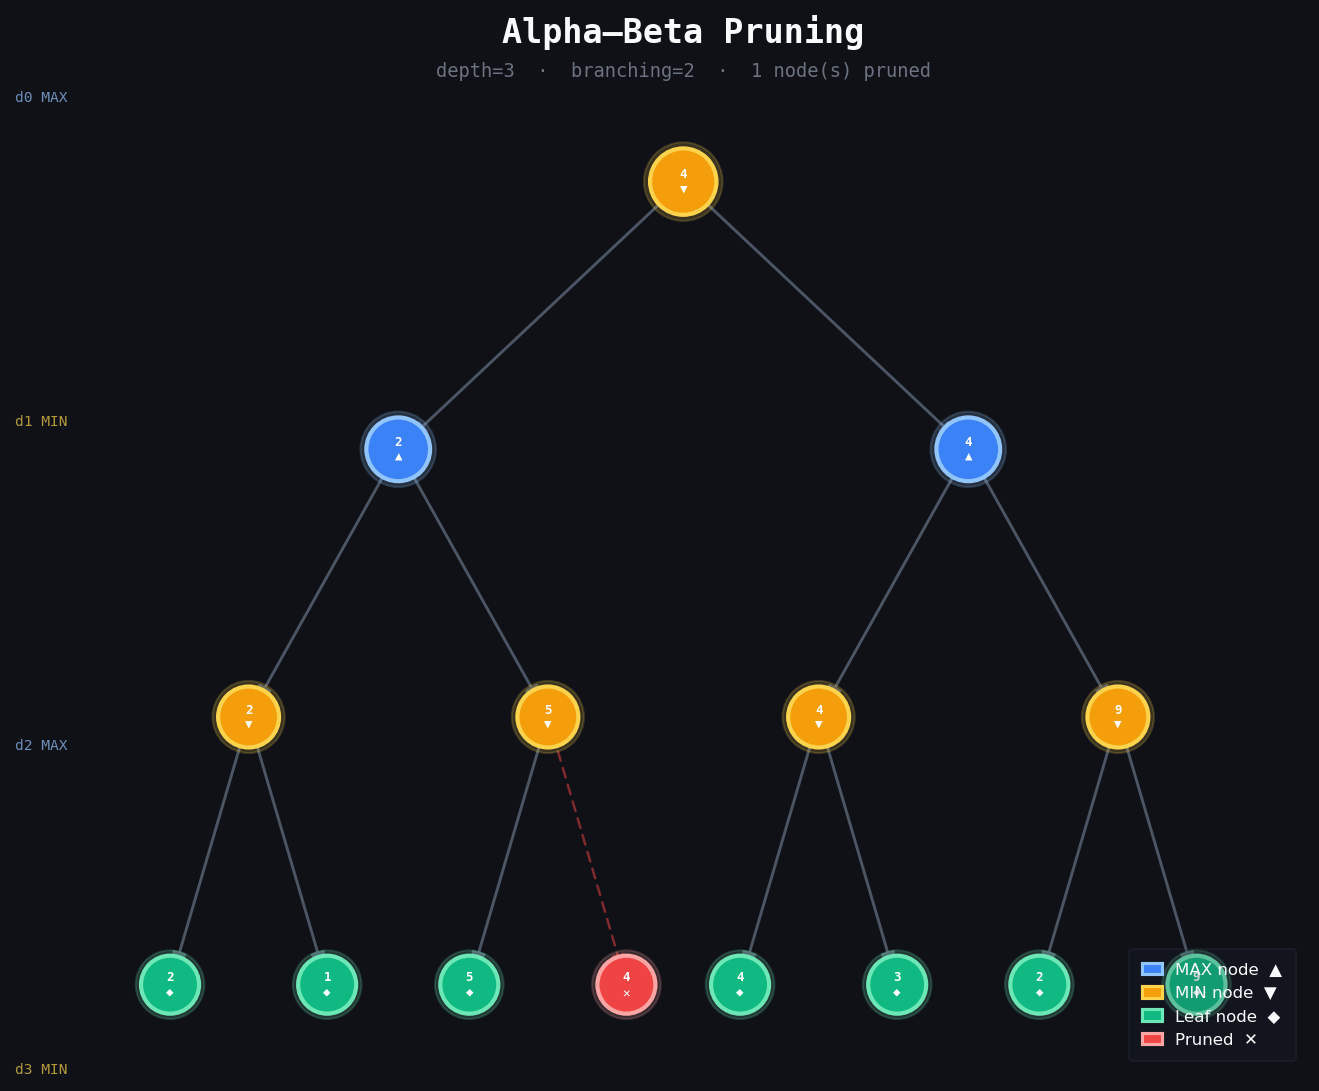
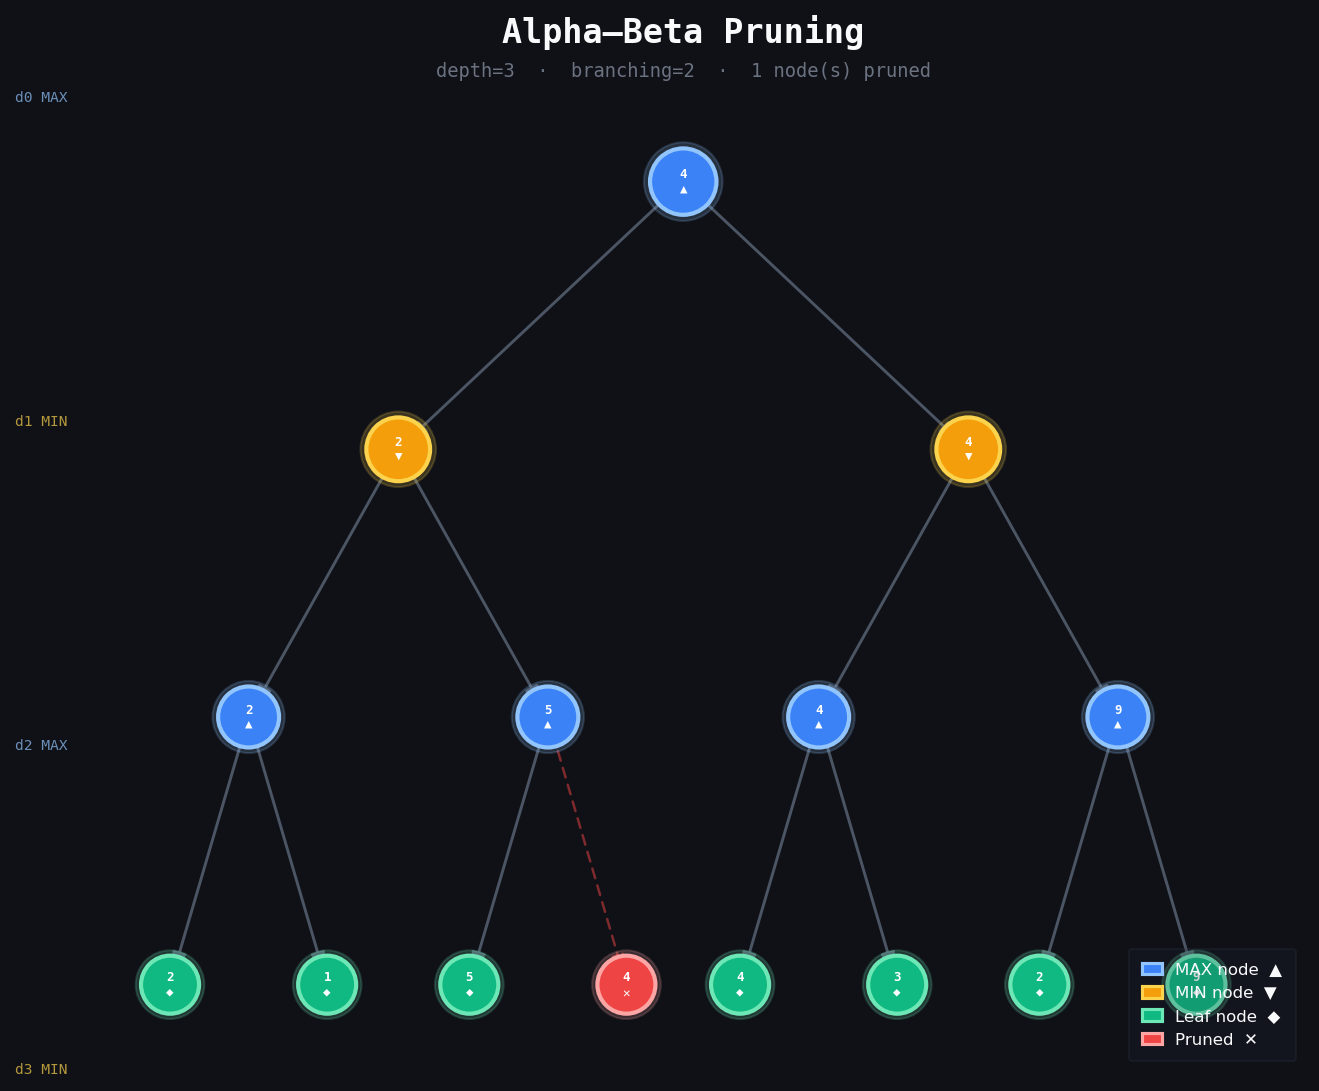
AB PRUNING

diff --git a/alpha-beta-pruning.py b/alpha-beta-pruning.py
@@ -9,6 +9,9 @@ pruned = set()
 # I will view in terminal for now
 # Add matplotlib soon 
 # It will have 2 optns for custom and random leaf values
+
+
+
 def build_tree(depth, branching, leaves, idx=0):
     if depth == 0:
         val = leaves[idx % len(leaves)]
@@ -18,7 +21,6 @@ def build_tree(depth, branching, leaves, idx=0):
         child, idx = build_tree(depth - 1, branching, leaves, idx)
         children.append(child)
     return {"val": None, "children": children, "id": None}, idx
-
 
 
 def alpha_beta(node, depth, alpha, beta, is_max, path="root"):
@@ -32,7 +34,7 @@ def alpha_beta(node, depth, alpha, beta, is_max, path="root"):
     if is_max:
         value = -math.inf
         for i, child in enumerate(node["children"]):
-            cp = f"{path}→{i}"                        # ← unicode arrow everywhere
+            cp = f"{path}→{i}"
             cv = alpha_beta(child, depth+1, alpha, beta, False, cp)
             value = max(value, cv)
             alpha = max(alpha, value)
@@ -45,7 +47,7 @@ def alpha_beta(node, depth, alpha, beta, is_max, path="root"):
     else:
         value = math.inf
         for i, child in enumerate(node["children"]):
-            cp = f"{path}→{i}"                       
+            cp = f"{path}→{i}"
             cv = alpha_beta(child, depth+1, alpha, beta, True, cp)
             value = min(value, cv)
             beta = min(beta, value)
@@ -60,24 +62,28 @@ def alpha_beta(node, depth, alpha, beta, is_max, path="root"):
     return value
 
 
-def print_tree(node, depth_left, prefix="", is_last=True, path="root"):
+def print_tree(node, tree_depth, depth_left, prefix="", is_last=True, path="root"):
     connector = "└── " if is_last else "├── "
     ptag      = "  PRUNED" if path in pruned else ""
-    layer     = "MAX" if (depth_left % 2 == 0) else "MIN"
-    val_str   = str(node["val"]) if node["val"] is not None else "?"
-    label     = f"[{val_str}] (leaf){ptag}" if not node["children"] else f"[{val_str}] ({layer}){ptag}"
+    # current level = tree_depth - depth_left; root (level 0) is always MAX
+    level  = tree_depth - depth_left
+    layer  = "MAX" if level % 2 == 0 else "MIN"
+    val_str = str(node["val"]) if node["val"] is not None else "?"
+    label   = f"[{val_str}] (leaf){ptag}" if not node["children"] else f"[{val_str}] ({layer}){ptag}"
     print(f"{prefix}{connector}{label}  {path}")
     child_prefix = prefix + ("    " if is_last else "│   ")
     for i, child in enumerate(node["children"]):
-        print_tree(child, depth_left-1, child_prefix, i == len(node["children"])-1, f"{path}→{i}")
+        print_tree(child, tree_depth, depth_left-1, child_prefix,
+                   i == len(node["children"])-1, f"{path}→{i}")
 
 
-def build_graph(node, G, pos, depth_left, x=0.0, y=0.0, dx=1.0,
+def build_graph(node, G, pos, tree_depth, depth_left, x=0.0, y=0.0, dx=1.0,
                 path="root", ancestor_pruned=False):
-    layer   = "MAX" if (depth_left % 2 == 0) else "MIN"
+    # level 0 = root = MAX; level 1 = MIN; etc.
+    level   = tree_depth - depth_left
+    layer   = "MAX" if level % 2 == 0 else "MIN"
     is_leaf = not node["children"]
     label   = str(node["val"]) if node["val"] is not None else "?"
-
 
     is_pruned = ancestor_pruned or (path in pruned)
     node_type = "pruned" if is_pruned else ("leaf" if is_leaf else layer)
@@ -87,17 +93,16 @@ def build_graph(node, G, pos, depth_left, x=0.0, y=0.0, dx=1.0,
 
     n = len(node["children"])
     for i, child in enumerate(node["children"]):
-        cp          = f"{path}→{i}"
-        offset      = (i - (n - 1) / 2) * dx
+        cp           = f"{path}→{i}"
+        offset       = (i - (n - 1) / 2) * dx
         child_pruned = is_pruned or (cp in pruned)
-        build_graph(child, G, pos, depth_left-1,
+        build_graph(child, G, pos, tree_depth, depth_left-1,
                     x + offset, y - 1.4, dx / n * 1.05,
                     cp, ancestor_pruned=child_pruned)
         G.add_edge(path, cp, pruned=child_pruned)
 
 
 def visualize(tree, depth, branching):
-
     BG         = "#0F1117"
     MAX_CLR    = "#3B82F6"
     MAX_RING   = "#93C5FD"
@@ -113,19 +118,16 @@ def visualize(tree, depth, branching):
     G   = nx.DiGraph()
     pos = {}
 
-   
     n_leaves = branching ** depth
     dx_root  = max(2.0, n_leaves * 0.55)
-    build_graph(tree, G, pos, depth, x=0, y=0, dx=dx_root)
+    build_graph(tree, G, pos, depth, depth, x=0, y=0, dx=dx_root)
 
     n_pruned = sum(1 for n in G.nodes if G.nodes[n]["type"] == "pruned")
 
-   
     w = min(max(9, n_leaves * 0.6), 32)
     h = depth * 1.8 + 2.5
     fig = plt.figure(figsize=(w, h), facecolor=BG)
     ax  = fig.add_axes([0.04, 0.08, 0.92, 0.82], facecolor=BG)
-
 
     fig.text(0.5, 0.97, "Alpha–Beta Pruning",
              ha="center", va="top", fontsize=16, fontweight="bold",
@@ -135,7 +137,6 @@ def visualize(tree, depth, branching):
              ha="center", va="top", fontsize=9, color="#6B7280",
              fontfamily="monospace")
 
- 
     face_map = {"MAX": MAX_CLR, "MIN": MIN_CLR, "leaf": LEAF_CLR, "pruned": PRUNE_CLR}
     ring_map = {"MAX": MAX_RING, "MIN": MIN_RING, "leaf": LEAF_RING, "pruned": PRUNE_RING}
 
@@ -143,34 +144,36 @@ def visualize(tree, depth, branching):
     node_colors = [face_map[G.nodes[n]["type"]] for n in node_list]
     node_rings  = [ring_map[G.nodes[n]["type"]] for n in node_list]
 
-  
     base_size = max(300, 1400 - depth * 120 - n_leaves * 3)
     node_sizes = []
     for n in node_list:
         dl = G.nodes[n]["depth_left"]
         node_sizes.append(max(200, base_size - (depth - dl) * 80))
 
-  
     solid_edges  = [e for e in G.edges if not G.edges[e]["pruned"]]
     dashed_edges = [e for e in G.edges if     G.edges[e]["pruned"]]
 
-    nx.draw_networkx_edges(G, pos, edgelist=solid_edges, edge_color=EDGE_CLR, width=1.4, style="solid", arrows=True, arrowstyle="-|>", arrowsize=14, ax=ax)
-    nx.draw_networkx_edges(G, pos, edgelist=dashed_edges, edge_color=PRUNE_CLR, width=1.2, alpha=0.5, style=(0, (4, 3)), arrows=True, arrowstyle="-|>", arrowsize=12, ax=ax)
+    nx.draw_networkx_edges(G, pos, edgelist=solid_edges, edge_color=EDGE_CLR,
+                           width=1.4, style="solid", arrows=True,
+                           arrowstyle="-|>", arrowsize=14, ax=ax)
+    nx.draw_networkx_edges(G, pos, edgelist=dashed_edges, edge_color=PRUNE_CLR,
+                           width=1.2, alpha=0.5, style=(0, (4, 3)), arrows=True,
+                           arrowstyle="-|>", arrowsize=12, ax=ax)
 
-    nx.draw_networkx_nodes(G, pos, nodelist=node_list, node_color=node_rings,  node_size=[s * 1.4 for s in node_sizes], alpha=0.18, ax=ax)
-   
-    nx.draw_networkx_nodes(G, pos, nodelist=node_list, node_color=node_colors, node_size=node_sizes, linewidths=2.0, edgecolors=node_rings, ax=ax)
-
+    nx.draw_networkx_nodes(G, pos, nodelist=node_list, node_color=node_rings,
+                           node_size=[s * 1.4 for s in node_sizes], alpha=0.18, ax=ax)
+    nx.draw_networkx_nodes(G, pos, nodelist=node_list, node_color=node_colors,
+                           node_size=node_sizes, linewidths=2.0,
+                           edgecolors=node_rings, ax=ax)
 
     sym_map = {"MAX": "▲", "MIN": "▼", "leaf": "◆", "pruned": "✕"}
     font_sz = max(5, 9 - depth)
     node_labels = {n: f"{G.nodes[n]['label']}\n{sym_map[G.nodes[n]['type']]}"
                    for n in node_list}
-    nx.draw_networkx_labels(G, pos, labels=node_labels,
-                            font_size=font_sz, font_color="white",
-                            font_weight="bold", font_family="monospace", ax=ax)
+    nx.draw_networkx_labels(G, pos, labels=node_labels, font_size=font_sz,
+                            font_color="white", font_weight="bold",
+                            font_family="monospace", ax=ax)
 
-   
     legend_items = [
         mpatches.Patch(facecolor=MAX_CLR,   edgecolor=MAX_RING,   linewidth=1.5, label="MAX node  ▲"),
         mpatches.Patch(facecolor=MIN_CLR,   edgecolor=MIN_RING,   linewidth=1.5, label="MIN node  ▼"),
@@ -183,16 +186,16 @@ def visualize(tree, depth, branching):
                     borderpad=0.8, labelspacing=0.5)
     leg.get_frame().set_linewidth(1.0)
 
-    # Depth 
-    ys     = sorted(set(v[1] for v in pos.values()), reverse=True)
-    y_min  = min(v[1] for v in pos.values())
-    y_max  = max(v[1] for v in pos.values())
+    # Depth sidebar — level 0 (root) is always MAX
+    ys    = sorted(set(v[1] for v in pos.values()), reverse=True)
+    y_min = min(v[1] for v in pos.values())
+    y_max = max(v[1] for v in pos.values())
     y_span = y_max - y_min or 1
-    for i, y_val in enumerate(ys):
-        lname = "MAX" if i % 2 == 0 else "MIN"
-        clr   = MAX_RING if i % 2 == 0 else MIN_RING
+    for level_i, y_val in enumerate(ys):
+        lname = "MAX" if level_i % 2 == 0 else "MIN"
+        clr   = MAX_RING if level_i % 2 == 0 else MIN_RING
         frac  = (y_val - y_min) / y_span * 0.82 + 0.08
-        fig.text(0.005, frac, f"d{i} {lname}",
+        fig.text(0.005, frac, f"d{level_i} {lname}",
                  ha="left", va="center", fontsize=7, color=clr,
                  fontfamily="monospace", alpha=0.7)
 
@@ -203,7 +206,6 @@ def visualize(tree, depth, branching):
     print(f"\nTree diagram saved → {out}")
     plt.show()
     plt.close()
-
 
 
 def get_int(prompt, lo=1, hi=10):
@@ -252,17 +254,17 @@ if __name__ == "__main__":
     tree, _ = build_tree(depth, branching, leaves)
     best     = alpha_beta(tree, 0, -math.inf, math.inf, True)
 
-    print("\nSteps ")
+    print("\nSteps")
     for line in log:
         print(line)
 
-    print("\n Tree (with pruning)")
-    print_tree(tree, depth)
+    print("\nTree (with pruning)")
+    print_tree(tree, depth, depth)
 
-    print(f"\n Optimal value at root = {best}")
+    print(f"\nOptimal value at root = {best}")
     if pruned:
         print(f"Pruned nodes: {sorted(pruned)}")
     else:
-        print(" No nodes pruned.")
+        print("No nodes pruned.")
 
     visualize(tree, depth, branching)